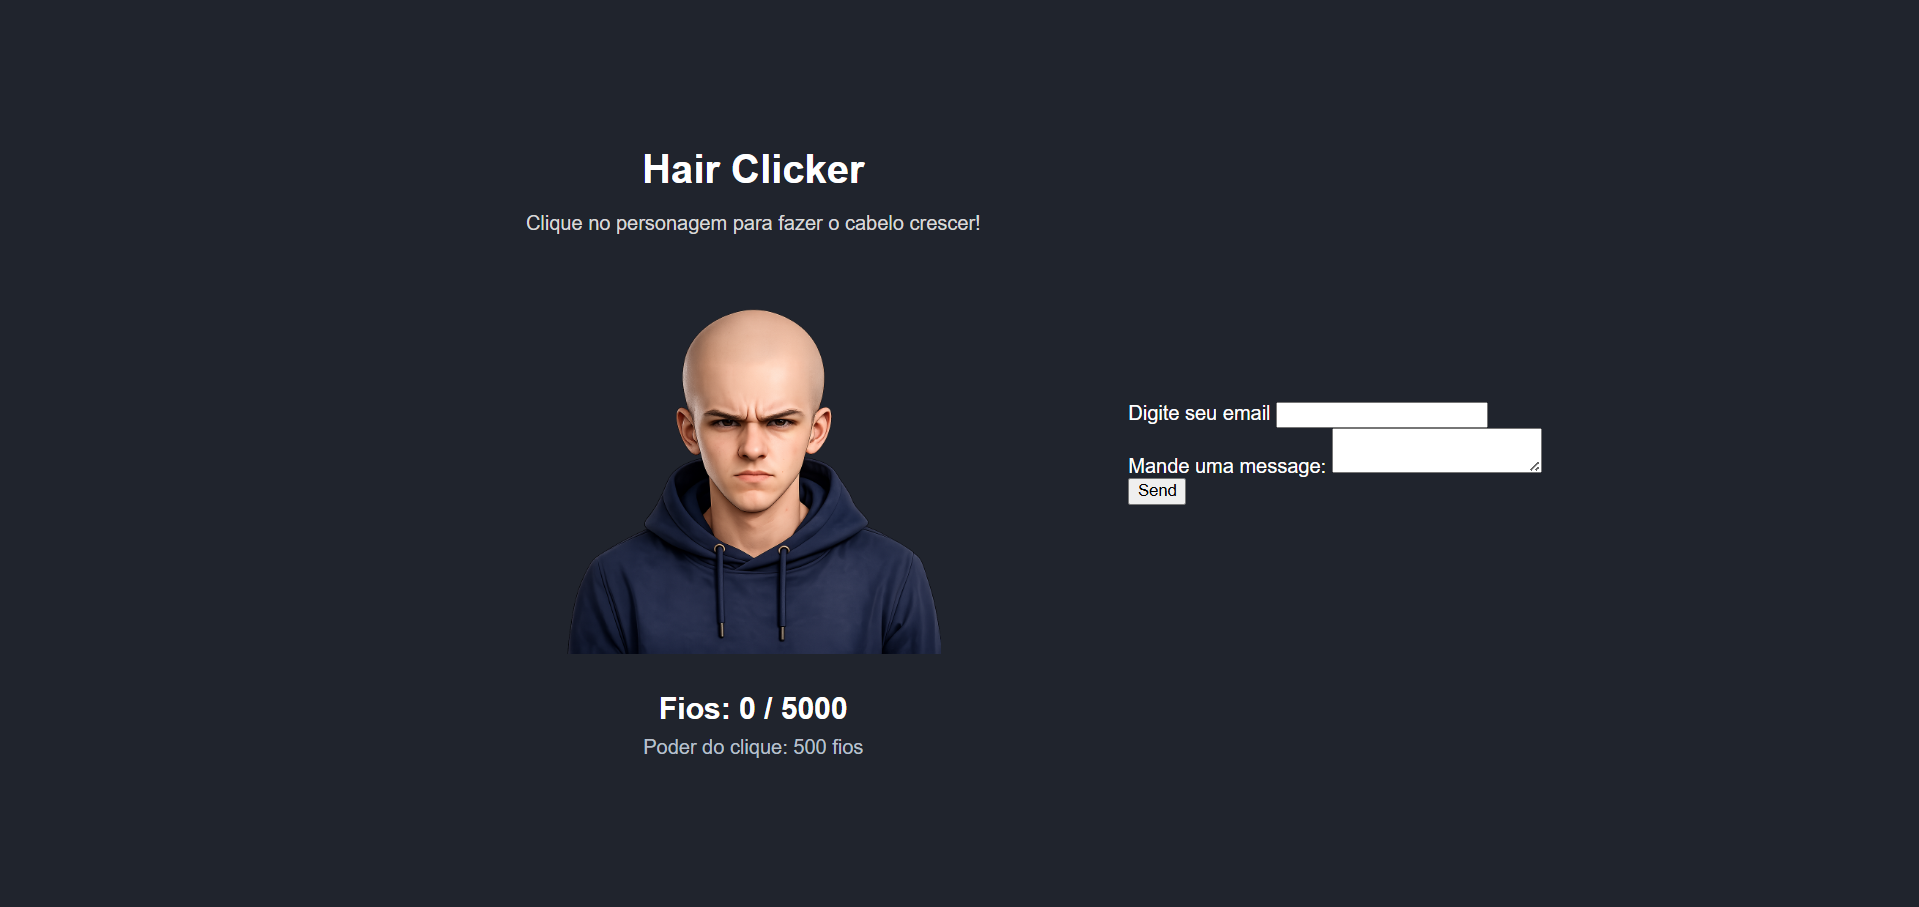
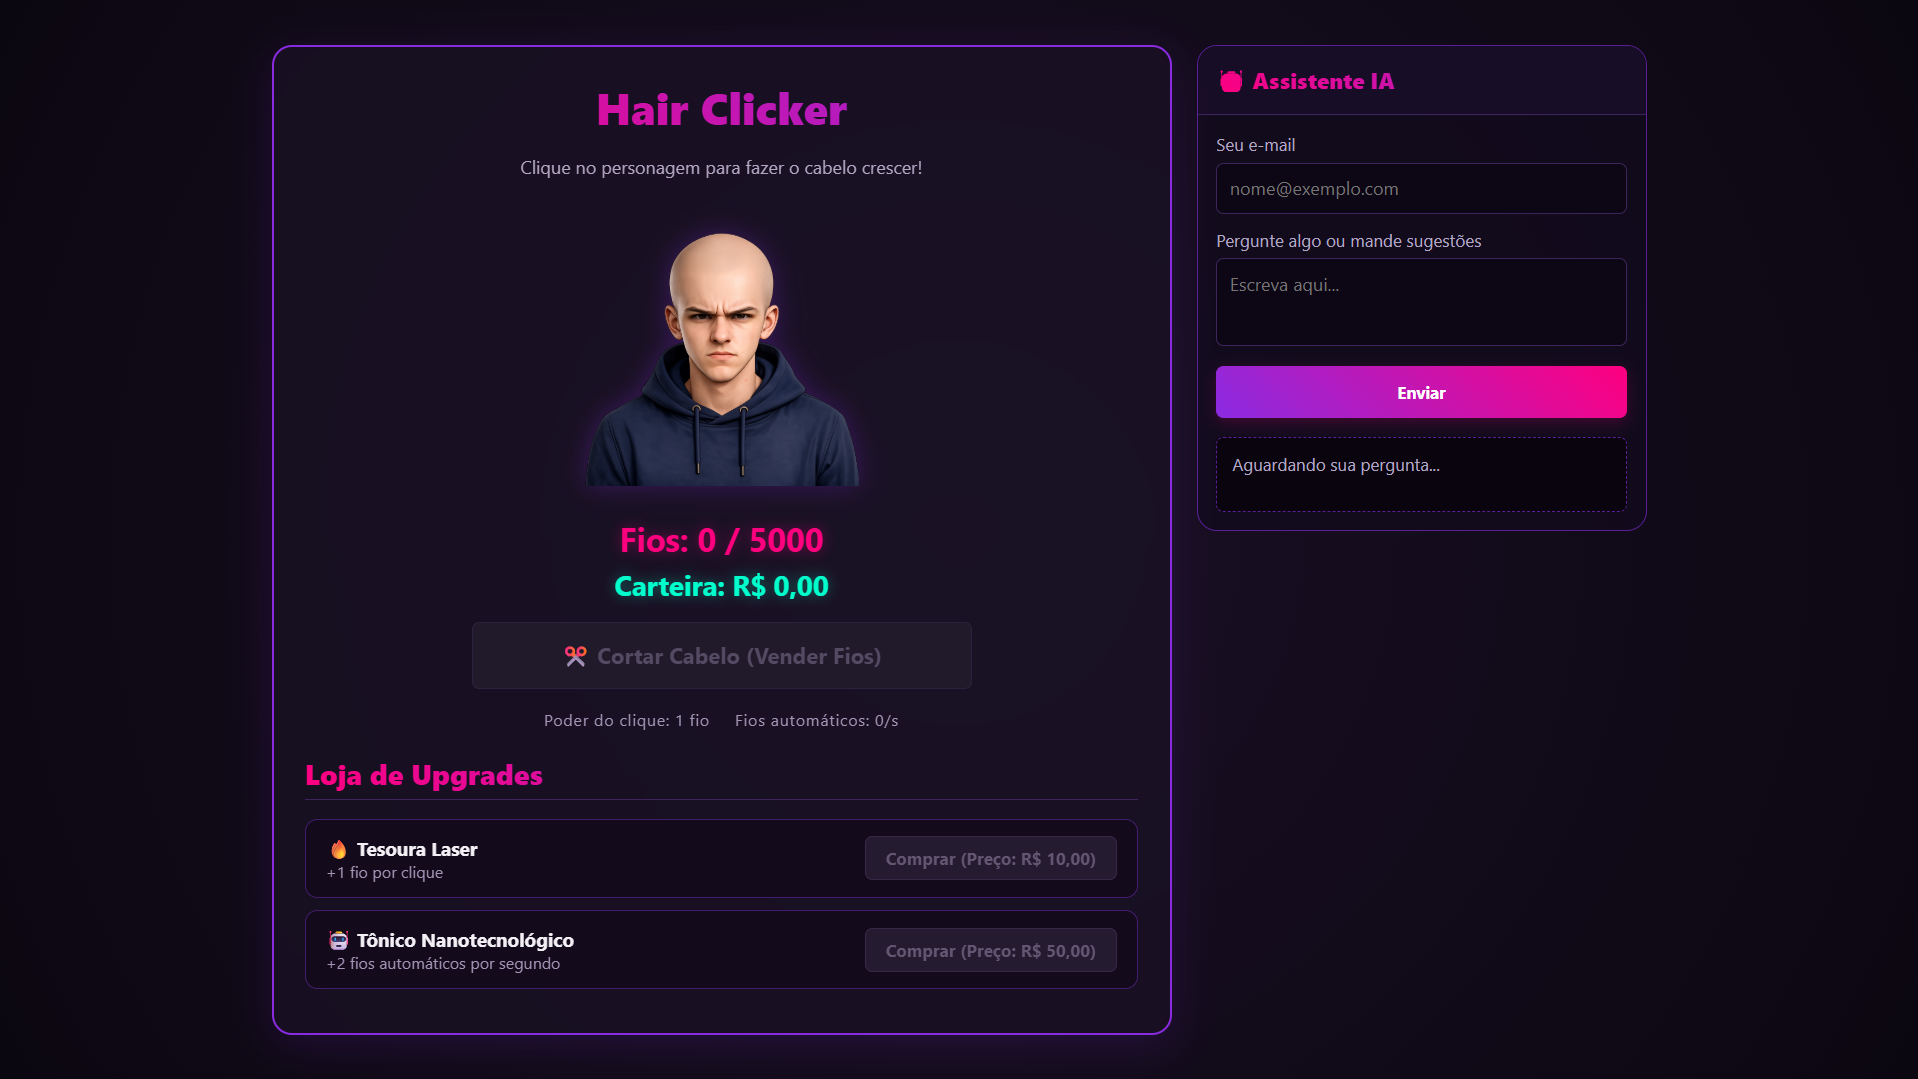
mudei a foto

diff --git a/projetos.html b/projetos.html
@@ -99,7 +99,7 @@
                         </a>
 
                         <a
-                            href="https://2bb8faba.bloguisinho-do-erick-animal.pages.dev"
+                            href="https://4a4723cf.bloguisinho-do-erick-animal.pages.dev"
                             target="_blank"
                             rel="noopener noreferrer"
                             class="proj-link-btn active-btn"
